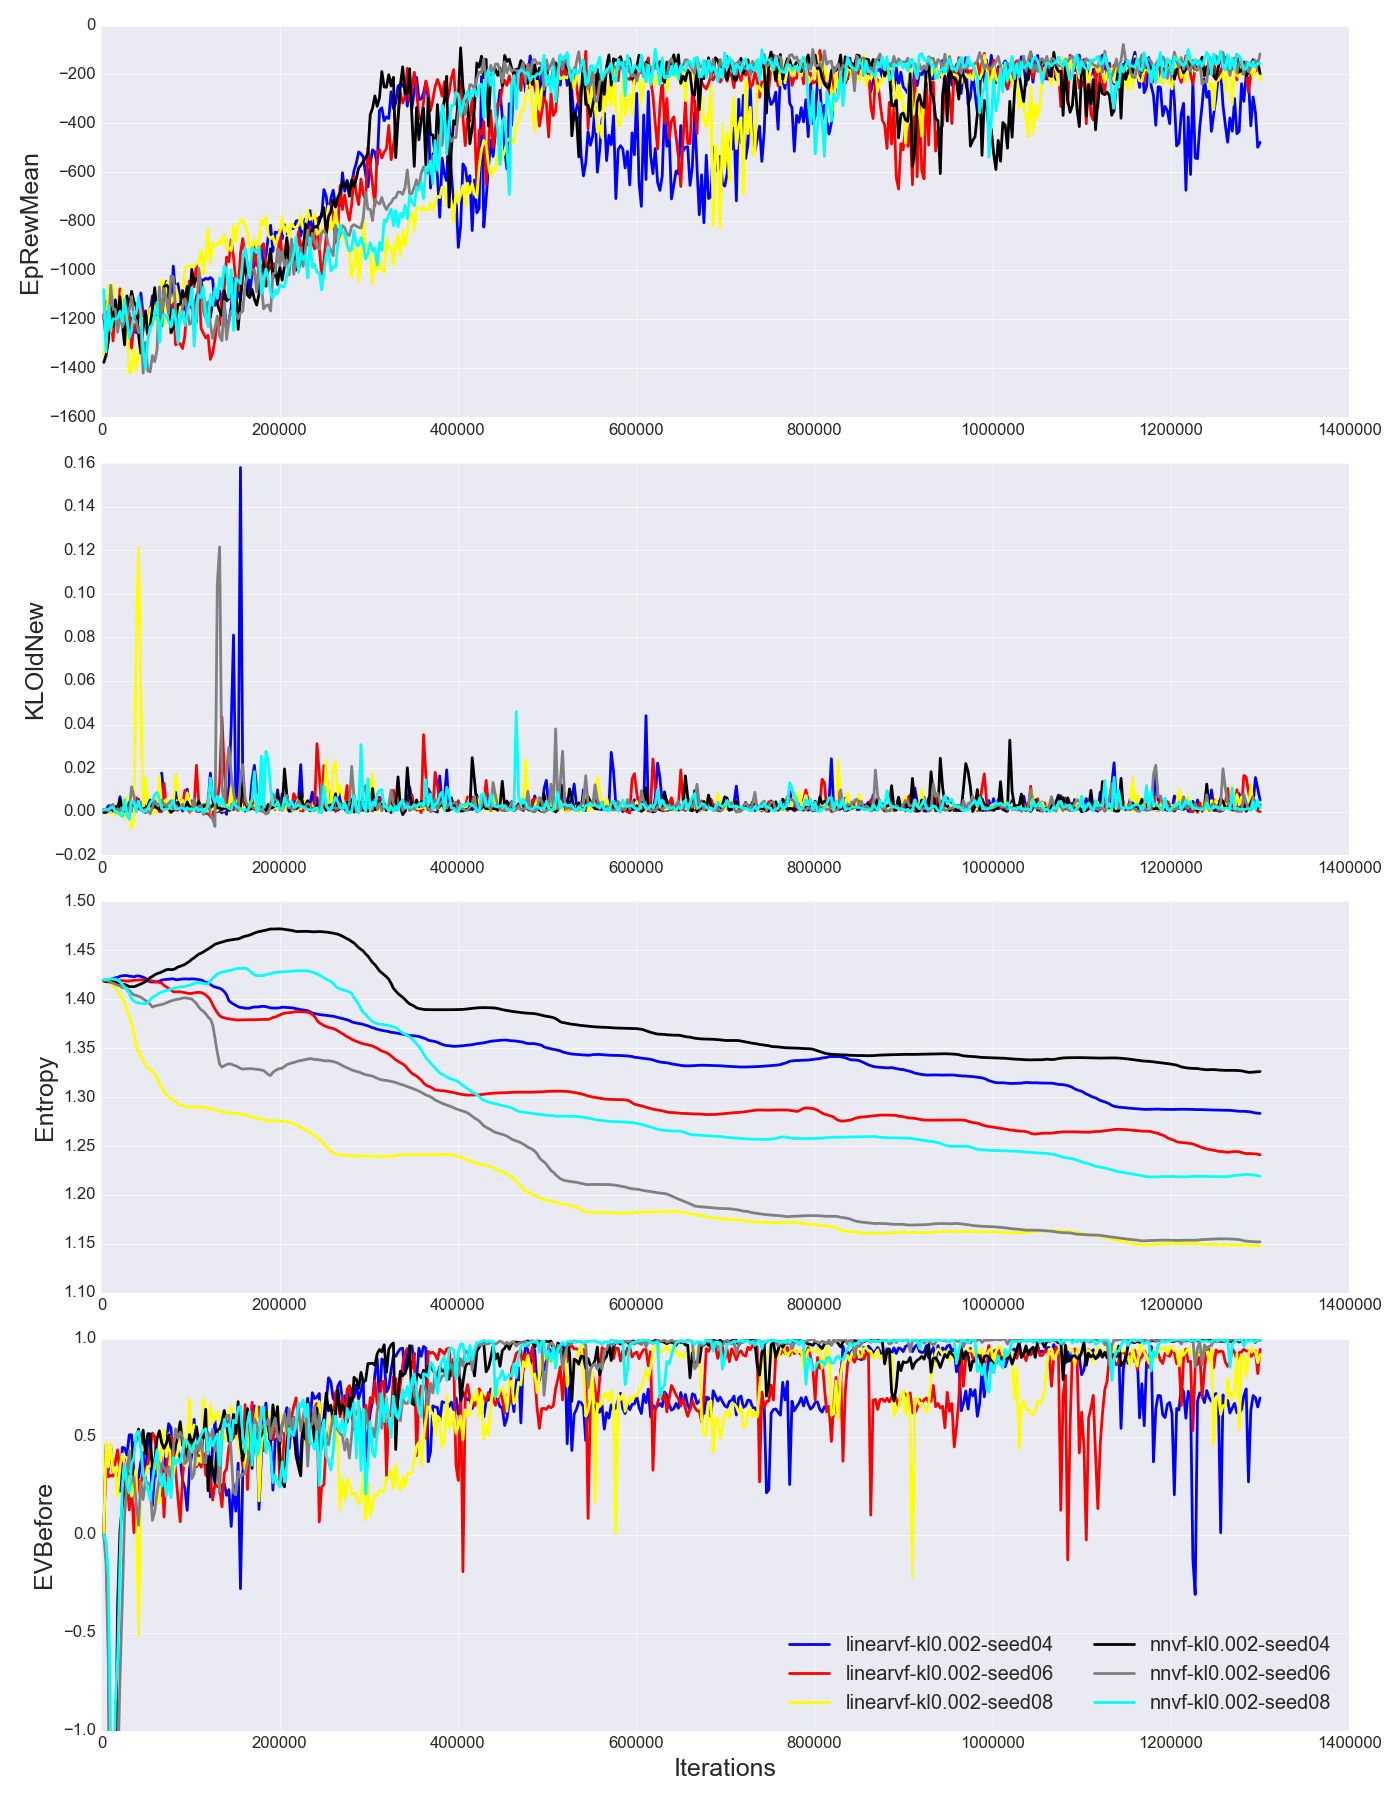
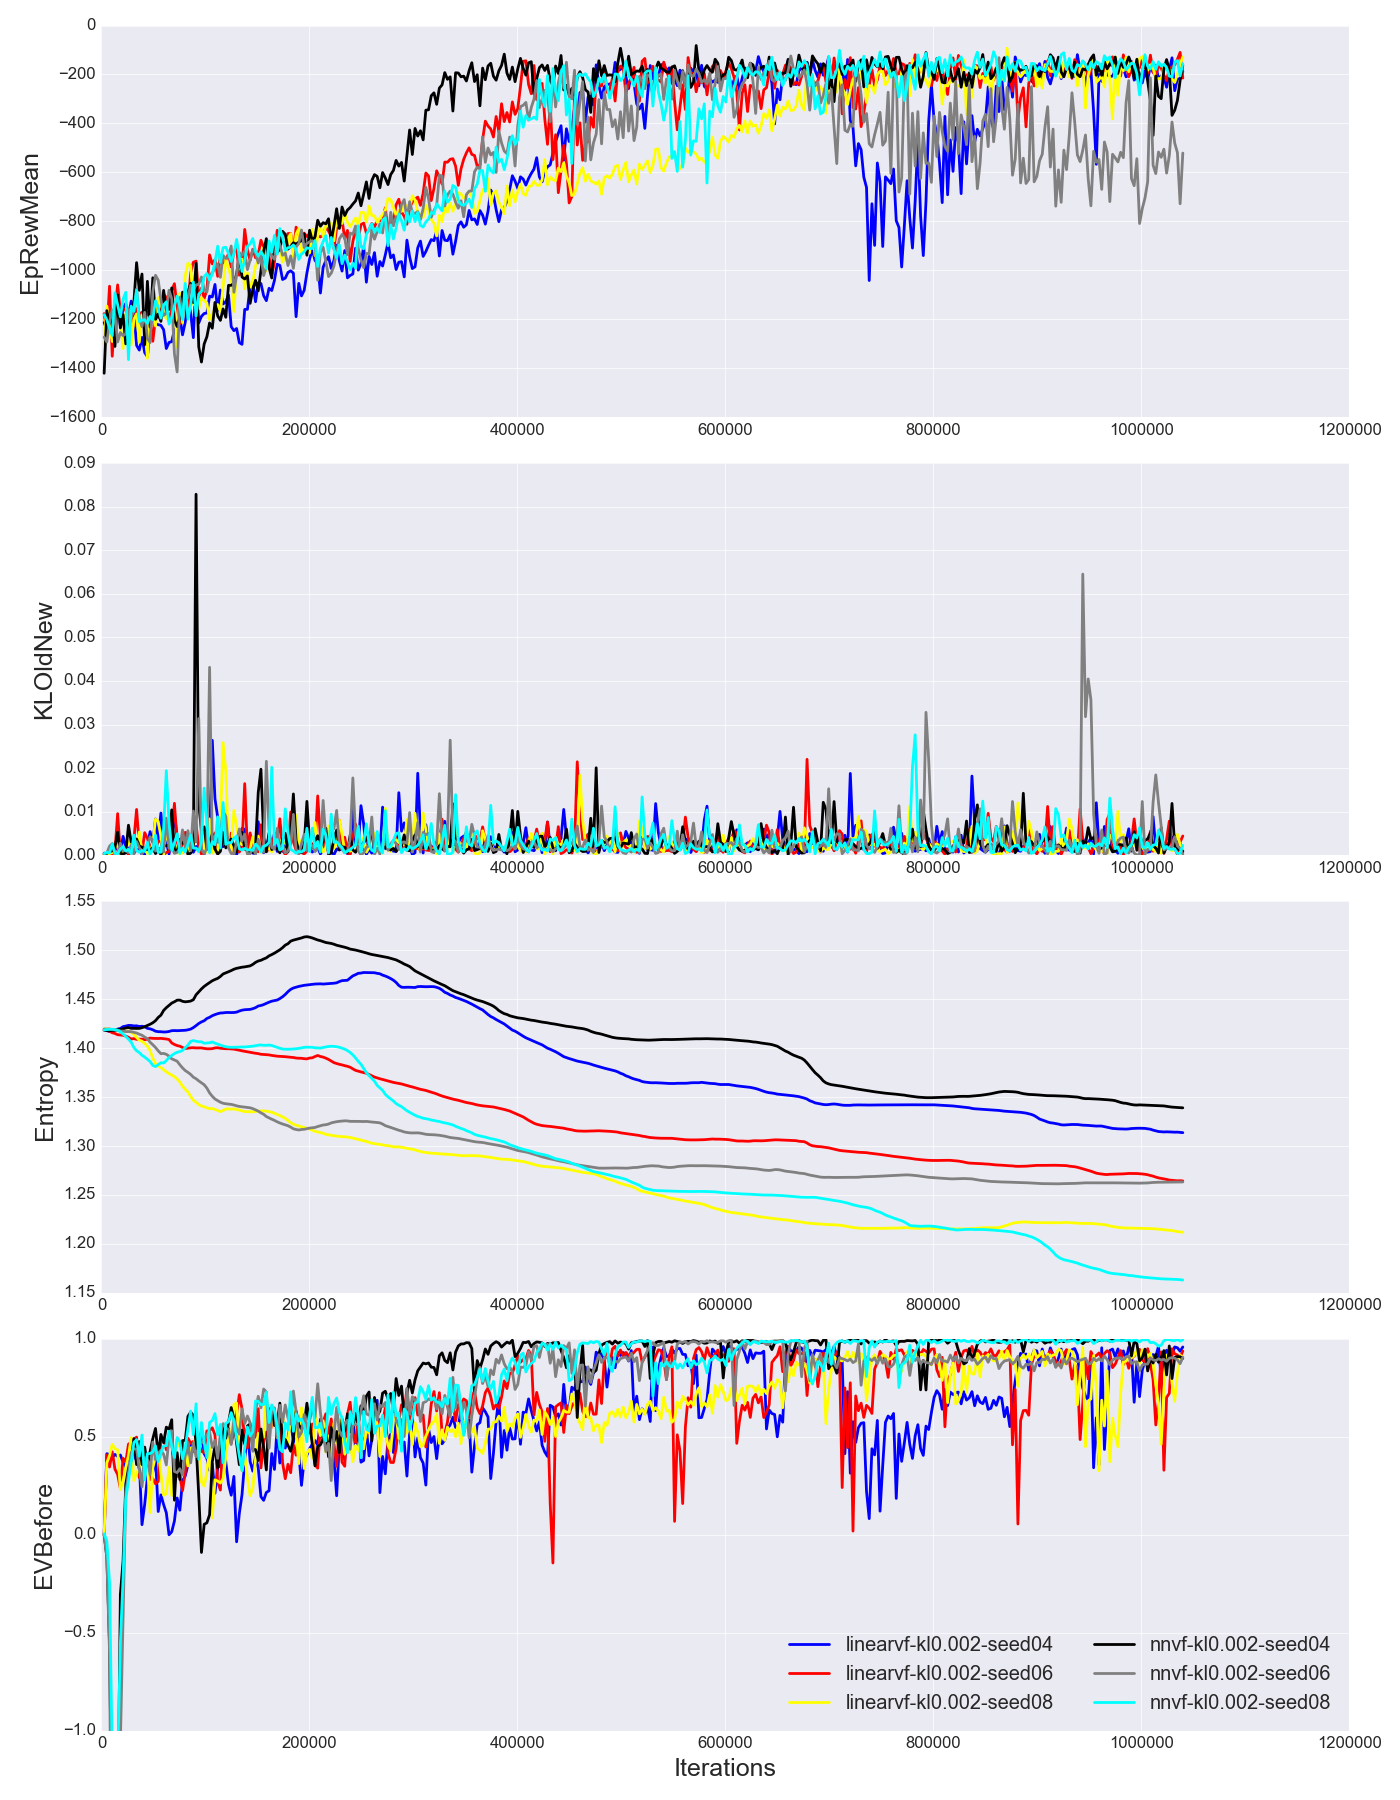
Updated Pendulum, README, yeah KL div is better now

diff --git a/vpg/plot_learning_curves.py b/vpg/plot_learning_curves.py
@@ -38,7 +38,7 @@ niter = args.niter
 
 # CAREFUL!
 if 'Pendulum-v0' in args.expdir:
-    niter = 500
+    niter = 400
 if ('Hopper-v1' in args.expdir) or ('Walker2d-v1' in args.expdir) or \
     ('HalfCheetah-v1' in args.expdir):
     niter = 3000

diff --git a/vpg/README.md b/vpg/README.md
@@ -8,19 +8,7 @@ details. I then changed it to make it more general.
 
 ## Pendulum-v0
 
-Script I used:
-
-```
-#!/bin/bash
-python main.py Pendulum-v0 --vf_type linear --seed 4
-python main.py Pendulum-v0 --vf_type nn --seed 4
-python main.py Pendulum-v0 --vf_type linear --seed 6
-python main.py Pendulum-v0 --vf_type nn --seed 6
-python main.py Pendulum-v0 --vf_type linear --seed 8
-python main.py Pendulum-v0 --vf_type nn --seed 8
-```
-
-Here are the raw results:
+The raw runs based on `bash_scripts/pendulum.sh`:
 
 ![Pendulum-v0](figures/Pendulum-v0.png?raw=true)
 
@@ -31,8 +19,15 @@ And now the smoothed versions:
 I think it looks OK. Pendulum is a bit tricky to solve because it requires an
 adaptive learning rate but I still get close to about -100 or so. I'm not sure
 what the theoretical best solution is; maybe zero, but that seems impossible.
-The neural network is only slightly better with these results because the
-problem is so simple. The action dimension is just one.
+The neural network is only slightly better with these results (I guess?) because
+the problem is so simple. The action dimension is just one.
+
+Also, before I was getting good results, but a few KL divergences were negative.
+Here, that shouldn't be a problem, and the KL divergence axis starts at 0.0 as
+should be the case (matplotlib makes the axes automatically). To be clear, the
+KL divergence posted here is an *average* over KL divergences in a minibatch,
+but my assertions check for the non-negativity requirement at each minibatch
+component up to an error of 1e-6.
 
 # MuJoCo Baselines
 
